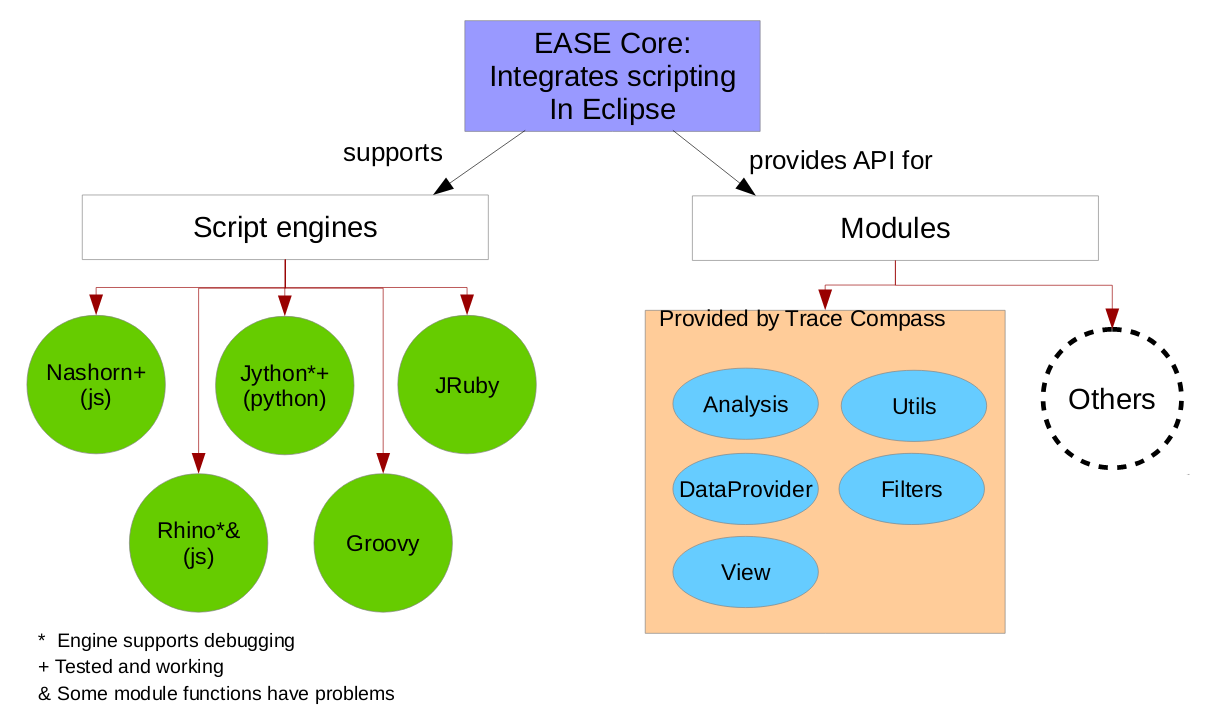
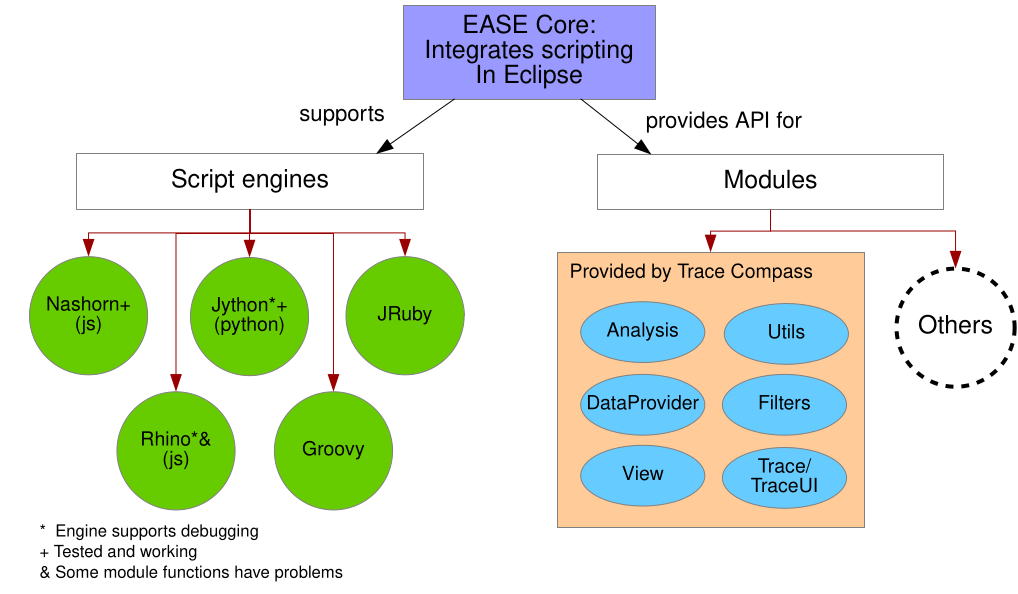
scripting: Add references to documentation
Also add a package-info file to the TraceUI module

diff --git a/analyses/org.eclipse.tracecompass.incubator.scripting.ui/src/org/eclipse/tracecompass/incubator/scripting/ui/trace/package-info.java b/analyses/org.eclipse.tracecompass.incubator.scripting.ui/src/org/eclipse/tracecompass/incubator/scripting/ui/trace/package-info.java
@@ -6,14 +6,16 @@
  * accompanies this distribution, and is available at
  * http://www.eclipse.org/legal/epl-v10.html
  *******************************************************************************/
+
 /**
- * <code>/TraceCompass/Trace</code>: EASE scripting module and classes to open
- * or import traces
+ * <code>/TraceCompass/TraceUI</code>: An extension of the
+ * <code>/TraceCompass/Trace</code> scripting module that allows to interact
+ * with the Trace Compass Project Explorer and UI in general.
  *
  * <pre>
- * Load: <code>/TraceCompass/Trace</code>
- * Type: core
+ * Load: <code>/TraceCompass/TraceUI</code>
+ * Type: UI
  * </pre>
  */
 @org.eclipse.jdt.annotation.NonNullByDefault
-package org.eclipse.tracecompass.incubator.scripting.core.trace;
+package org.eclipse.tracecompass.incubator.scripting.ui.trace;

diff --git a/analyses/org.eclipse.tracecompass.incubator.scripting.ui/src/org/eclipse/tracecompass/incubator/scripting/ui/trace/TraceScriptingUI.java b/analyses/org.eclipse.tracecompass.incubator.scripting.ui/src/org/eclipse/tracecompass/incubator/scripting/ui/trace/TraceScriptingUI.java
@@ -28,7 +28,8 @@ import org.eclipse.tracecompass.tmf.ui.project.model.TmfProjectElement;
 import org.eclipse.tracecompass.tmf.ui.project.model.TmfProjectRegistry;
 
 /**
- * Let the TraceScriptingModule interact with the UI
+ * Extension of the {@link TraceScriptingModule} class that allows to interact
+ * with the Trace Compass UI to open an import traces.
  *
  * @author Benjamin Saint-Cyr
  */
